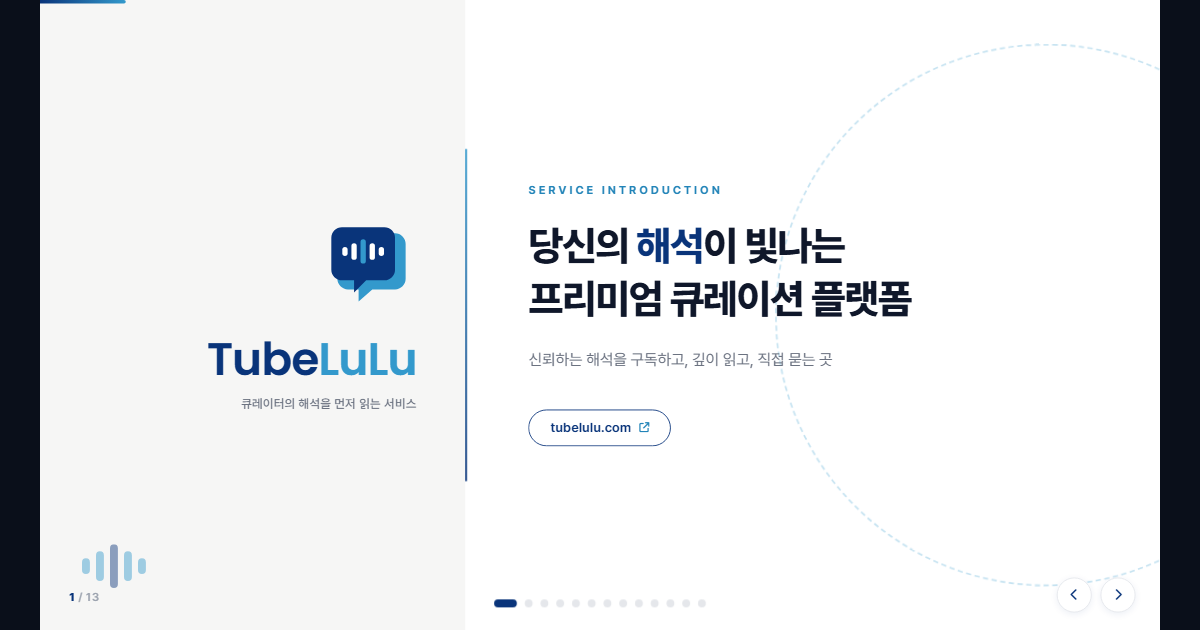
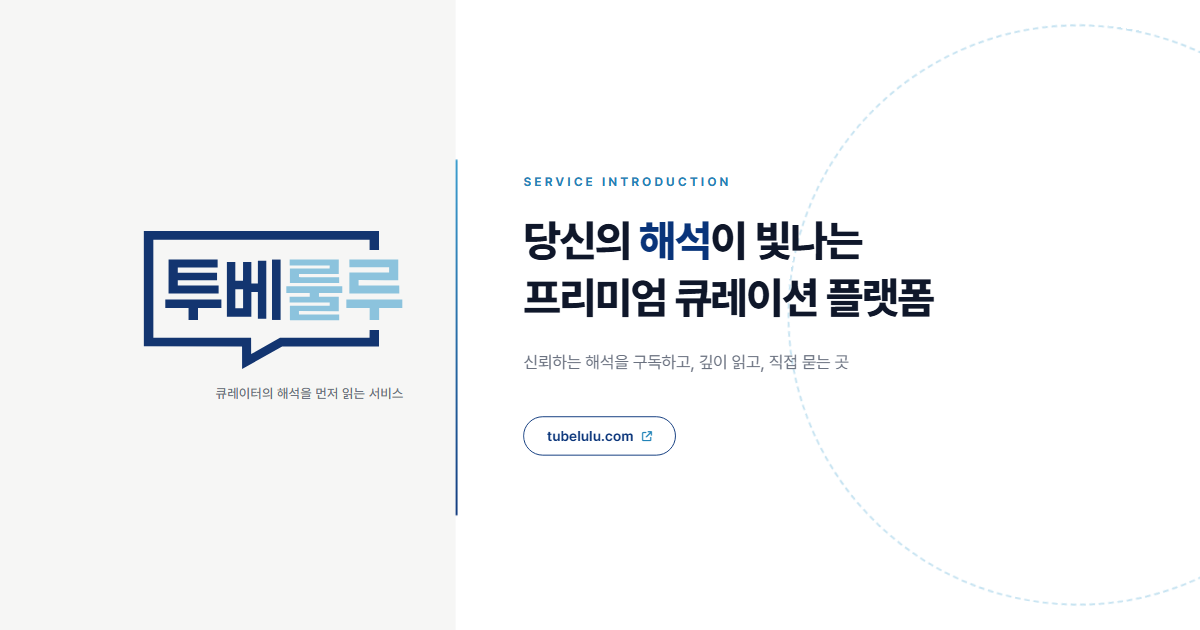
서비스 소개서 로고를 신규 BI로 교체

diff --git a/index.html b/index.html
@@ -1339,8 +1339,17 @@ body {
 }
 @page { size: 1280px 720px; margin: 0; }
 </style>
+<style id="logo-css">
+.lg { display: block; height: 1em; width: auto; color: #133570; --lg-b: #8cc3dd; flex-shrink: 0; }
+.slide-dark .lg { color: #fff; --lg-b: #fff; }
+.cover-brand .lg { height: 150px; margin-left: auto; }
+.pm-logo .lg { height: 22px; }
+.wave-watermark { display: none; }
+.lg.lg-inline { display: inline-block; height: 1.7em; vertical-align: -0.55em; margin-right: 4px; }
+</style>
 </head>
 <body>
+<svg width="0" height="0" style="position:absolute" aria-hidden="true"><defs><g id="lg"><polygon fill="currentColor" points="560.46 187.27 696.01 187.17 696.11 175.46 703.95 175.46 710.34 175.46 710.32 200.21 563.74 200.2 503.1 234.38 503.05 200.2 354.45 200.09 354.41 25.62 710.33 25.7 710.37 54.45 696.06 54.45 696.06 43.27 696.06 38.91 368.8 38.93 368.84 187.26 516.74 187.27 516.82 211.89 560.46 187.27"/><g><polygon fill="var(--lg-b,currentColor)" points="650.05 160.48 575.45 160.5 575.45 138.87 635.66 138.86 635.72 133.86 575.06 133.85 575.05 125.1 605.49 125.09 605.44 119.27 570.04 119.29 570.04 109.28 654.73 109.27 654.73 119.28 619.42 119.27 619.43 125.1 649.42 125.11 649.43 146.84 589.13 146.83 589.16 151.8 650.04 151.76 650.05 160.48"/><polygon fill="var(--lg-b,currentColor)" points="650 95.53 650.04 104.21 575.46 104.21 575.46 82.41 635.57 82.38 635.7 77.69 575.12 77.65 575.13 68.62 649.43 68.62 649.42 90.56 589.2 90.58 589.15 95.36 592.16 95.5 650 95.53"/></g><polygon fill="var(--lg-b,currentColor)" points="740.94 107.89 741.05 119.99 665.45 120.02 665.46 88.48 725.62 88.49 725.6 80.59 665.52 80.57 665.42 68.63 739.44 68.61 739.43 99.93 720.36 99.94 679.38 99.86 679.39 107.88 740.94 107.89"/><polygon fill="currentColor" points="465.23 100.17 405.78 100.17 405.79 107.96 467.59 107.96 467.61 120.02 391.82 120.01 391.86 68.82 466.09 68.84 466.12 80.93 405.79 80.93 405.79 88.73 465.22 88.72 465.23 100.17"/><path fill="currentColor" d="M436.43,160.19h-14.32l-.02-18.24h-35.18v-12.72s84.87.01,84.87.01l.02,12.7c-2.09,0-3.86-.03-5.88,0h-29.51l.02,18.24Z"/><polygon fill="var(--lg-b,currentColor)" points="710.49 160.28 696.14 160.32 696.16 142.11 660.89 142.11 660.88 129.24 745.58 129.23 745.59 142.12 710.49 142.08 710.49 160.28"/><rect fill="currentColor" x="548.38" y="68.82" width="13.01" height="91.37"/><path fill="currentColor" d="M534.31,70.7l-7.29-.05-.03,34.28-9.86-.04v-32.35s-12.55,0-12.55,0l-.03,28.14h-11.69s0-28.18,0-28.18l-12.76.05v82.92s37.02,0,37.02,0l.04-37.54h9.84s0,40.43,0,40.43h12.73s0-87.73,0-87.73l-5.43.06ZM504.62,142.43h-11.75v-28.8h11.75v28.8Z"/></g></defs></svg>
 
 <div class="presentation" id="presentation">
 
@@ -1348,19 +1357,9 @@ body {
   <section class="slide slide-cover active" id="slide-1">
     <div class="cover-left">
       <div class="cover-brand a-left">
-        <svg class="cover-symbol" role="img" viewBox="0 0 120 120" fill="none" xmlns="http://www.w3.org/2000/svg" aria-label="TubeLuLu 심볼">
-          <path d="M30 18 H92 A14 14 0 0 1 106 32 V78 A14 14 0 0 1 92 92 H62 L44 108 V92 H30 A14 14 0 0 1 16 78 V32 A14 14 0 0 1 30 18 Z" fill="#3399CC"/>
-          <path d="M22 10 H78 A14 14 0 0 1 92 24 V66 A14 14 0 0 1 78 80 H54 L38 96 V80 H22 A14 14 0 0 1 8 66 V24 A14 14 0 0 1 22 10 Z" fill="#09347A"/>
-          <rect x="22.5" y="36" width="7" height="12" rx="3.5" fill="#FFFFFF"/>
-          <rect x="34.5" y="31" width="7" height="22" rx="3.5" fill="#FFFFFF"/>
-          <rect x="46.5" y="26" width="7" height="32" rx="3.5" fill="#3399CC"/>
-          <rect x="58.5" y="31" width="7" height="22" rx="3.5" fill="#FFFFFF"/>
-          <rect x="70.5" y="36" width="7" height="12" rx="3.5" fill="#FFFFFF"/>
-        </svg>
-        <div class="cover-wordmark"><span class="t">Tube</span><span class="l">LuLu</span></div>
+        <svg class="lg" viewBox="352.4 23.6 395.2 212.8" role="img" aria-label="투베룰루"><use href="#lg"/></svg>
         <div class="cover-brand-sub">큐레이터의 해석을 먼저 읽는 서비스</div>
       </div>
-      <div class="cover-wave" aria-hidden="true"><span></span><span></span><span></span><span></span><span></span></div>
     </div>
     <div class="cover-divider"><div class="cover-divider-line"></div></div>
     <div class="cover-right">
@@ -1543,7 +1542,7 @@ body {
             <div class="pm-status" aria-hidden="true"><span>9:41</span><span class="pm-status-icons"><i class="fa-solid fa-signal"></i><i class="fa-solid fa-wifi"></i><i class="fa-solid fa-battery-full"></i></span></div>
             <div class="pm-hdr">
               <i class="fa-solid fa-chevron-left"></i>
-              <span class="pm-logo"><span class="t">Tube</span><span class="l">LuLu</span></span>
+              <span class="pm-logo"><svg class="lg" viewBox="352.4 23.6 395.2 212.8" role="img" aria-label="투베룰루"><use href="#lg"/></svg></span>
               <i class="fa-solid fa-ellipsis"></i>
             </div>
             <div class="pm-scroll">
@@ -1847,7 +1846,7 @@ body {
     <div class="slide-body">
       <div class="roles-wrap">
         <div class="card role-card a-left d1">
-          <div class="role-head"><i class="fa-solid fa-gears"></i><span><span class="wm-inline"><span class="t">Tube</span><span class="l">LuLu</span></span>가 하는 일</span></div>
+          <div class="role-head"><i class="fa-solid fa-gears"></i><span>TubeLuLu가 하는 일</span></div>
           <div class="role-item">
             <div class="icon-box"><i class="fa-solid fa-credit-card"></i></div>
             <div>
@@ -1965,7 +1964,7 @@ body {
         <a class="cta-button light" href="https://tubelulu.com" target="_blank" rel="noopener">tubelulu.com에서 시작하기<i class="fa-solid fa-arrow-right"></i></a>
         <div class="closing-urls">문의: <a href="mailto:luluai_official@teamlulu.ai?subject=TubeLuLu%20%ED%81%90%EB%A0%88%EC%9D%B4%ED%84%B0%20%EC%A7%80%EC%9B%90%20%EB%AC%B8%EC%9D%98">luluai_official@teamlulu.ai</a></div>
       </div>
-      <p class="closing-line a-up d6"><span class="wm-inline"><span class="t">Tube</span><span class="l">LuLu</span></span> — 당신의 해석이 빛나는 프리미엄 큐레이션 플랫폼</p>
+      <p class="closing-line a-up d6"><svg class="lg lg-inline" viewBox="352.4 23.6 395.2 212.8" role="img" aria-label="투베룰루"><use href="#lg"/></svg> — 당신의 해석이 빛나는 프리미엄 큐레이션 플랫폼</p>
     </div>
     <div class="wave-watermark" aria-hidden="true"><span></span><span></span><span></span><span></span><span></span></div>
   </section>
